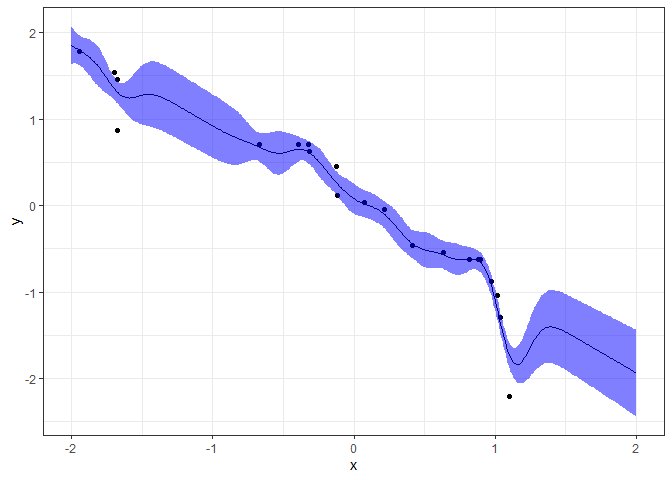
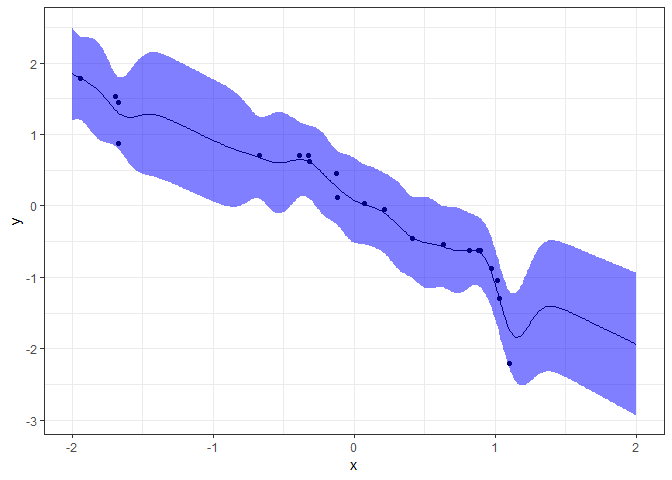
fix gp

diff --git a/post/gaussianprocessori/gaussianprocessori/index.html b/post/gaussianprocessori/gaussianprocessori/index.html
@@ -240,19 +240,19 @@ GP_sim &lt;- function(kernel, par){
 }
 </code></pre>
 <h5 id="ガウスカーネルのシミュレーション">ガウスカーネルのシミュレーション</h5>
-<p>前の節で紹介したガウスカーネルのシミュレーションです。
+<p>前の節で紹介したガウスカーネルのシミュレーションです。改めてガウスカーネルを再定義します。
 <!-- raw HTML omitted -->  <br>
-ガウスカーネルは、下のようにrateパラメータ$\theta$、shapeパラメータ$\rho$を設定する流儀もあるようですが、以降ではshapeパラメータのみ考え、$\rho=1$とした場合のシミュレーションをします。</p>
+ガウスカーネルは、下のようにrateパラメータ$\theta$、shapeパラメータ$\rho$をもちます。ここでは$\theta$、$\rho$ともに１とした場合のシミュレーションをします。</p>
 <p>$$
 k(x,x_{'}) = \theta exp\left(-\cfrac{(x-x^{'})^2}{\rho}\right)
 $$</p>
 <pre><code>## ガウスカーネルの定義 kernel_cov()で使用できるように、引数は(x1,x2,par)でないといけない
 ## カーネルのハイパーパラメータはすべてparで指定する
 Gaussian_kernel &lt;- function(x1, x2, par){
-  return(exp(-(x1 - x2)^2/par[1]))
+  return(par[1]*exp(-(x1 - x2)^2/par[2]))
 }
 
-GP_sim(Gaussian_kernel, par=1)
+GP_sim(Gaussian_kernel, par=c(1,1))
 </code></pre>
 <p><img src="/my-page/post/gaussianprocessori/sim_1.png" alt=""></p>
 <p>ガウスカーネルをカーネル関数に設定したガウス過程は、無限回微分可能な滑らかな曲線になるそうです。</p>
@@ -386,12 +386,12 @@ my_predict &lt;- function(x_test, x_train, y_train, kernel, par){
 <h5 id="ガウスカーネルを使った回帰">ガウスカーネルを使った回帰</h5>
 <p>上で定義した関数を使い、カーネル関数にガウスカーネルを設定して回帰を実行してみます。</p>
 <pre><code>#自作関数GP_L()を使って尤度を計算 尤度を最大化するハイパーパラメータを推定 
-res_optim1 &lt;- exp(optim(par=c(0,0),fn=GP_L,kernel=Gaussian_kernel, x=x,y=y,control = list(fnscale=-1), method=&quot;BFGS&quot;)$par)
+res_optim1 &lt;- exp(optim(par=c(0,0,0),fn=GP_L,kernel=Gaussian_kernel, x=x,y=y,control = list(fnscale=-1), method=&quot;BFGS&quot;)$par)
 
 par &lt;- exp(res_optim1$par)
 # 推定したパラメータの値を確認
 par
-## [1] 0.19549540 0.04619606
+## [1] 1.55308949 0.22898734 0.04299662
 
 #自作関数my_predict()を使って予測分布の平均・ 共分散行列を求める
 pre &lt;- my_predict(x_test = seq(-2.0,2.0,0.01),x_train=x, y_train=y, kernel=Gaussian_kernel,par=par)
@@ -401,11 +401,15 @@ library(ggplot2)
 p &lt;- ggplot() + theme_bw(base_size=11) + 
   geom_line(data=data.frame(x=seq(-2.0,2.0,0.01),y=pre[[1]]),aes(x=x,y=y))
 p &lt;- p + geom_point(data=data.frame(x=x,y=y),aes(x=x,y=y))
-p &lt;- p + geom_ribbon(data=data.frame(x=seq(-2.0,2.0,0.01),ymin=pre[[1]]-2*diag(pre[[2]]), ymax=pre[[1]]+2*diag(pre[[2]])),
+p &lt;- p + geom_ribbon(data=data.frame(x=seq(-2.0,2.0,0.01),ymin=pre[[1]]-2*sqrt(diag(pre[[2]])), ymax=pre[[1]]+2*sqrt(diag(pre[[2]]))),
                      aes(x=x,ymax=ymax,ymin=ymin),fill=&quot;blue&quot;,alpha=0.5)
 p
 </code></pre>
 <p><img src="/my-page/post/gaussianprocessori/res_1.png" alt=""></p>
+<p>最適化したカーネル関数は以下になります。$\delta(x,x^{'})$はクロネッカーのデルタと呼ばれ、$x=x^{'}$のとき、つまりカーネル行列の対角成分にときのみ1を、それ以外は0を返す関数です。</p>
+<p>$$
+k(x,x_{'}) = 1.553exp\left(-\cfrac{(x-x^{'})^2}{0.229}\right) + 0.043\delta(x,x^{'})
+$$</p>
 <p>青い領域はガウス事後分布の$\pm2\sigma$の誤差範囲を示します。
 <!-- raw HTML omitted -->  <br>
 これまた不思議な予測曲線が得られました。結果を観察すると、観測値の乏しい範囲では誤差範囲が広く推定されており、期待値も平均($=0$)に近づくようになっています。</p>
@@ -435,12 +439,16 @@ library(ggplot2)
 p &lt;- ggplot() + theme_bw(base_size=11) + 
   geom_line(data=data.frame(x=seq(-2.0,2.0,0.01),y=pre[[1]]),aes(x=x,y=y))
 p &lt;- p + geom_point(data=data.frame(x=x,y=y),aes(x=x,y=y))
-p &lt;- p + geom_ribbon(data=data.frame(x=seq(-2.0,2.0,0.01),ymin=pre[[1]]-2*diag(pre[[2]]), ymax=pre[[1]]+2*diag(pre[[2]])),
+p &lt;- p + geom_ribbon(data=data.frame(x=seq(-2.0,2.0,0.01),ymin=pre[[1]]-2*sqrt(diag(pre[[2]])), ymax=pre[[1]]+2*sqrt(diag(pre[[2]]))),
                      aes(x=x,ymax=ymax,ymin=ymin),fill=&quot;blue&quot;,alpha=0.5)
 p
 </code></pre>
 <p><img src="/my-page/post/gaussianprocessori/res_2.png" alt=""></p>
 <p><strong>It&rsquo;s so brilliant</strong>&gt;🐢</p>
+<p>最適化したカーネル関数は以下になります。</p>
+<p>$$
+k(x,x_{'}) = 0.111exp\left(-\cfrac{(x-x^{'})^2}{0.027}\right) + 0.469x^T x^{'} + 0.047\delta(x,x^{'})
+$$</p>
 <p>タイムが短縮される全体的な傾向が線形カーネルでとらえるとともに、細かい変動をガウスカーネルで表現できています。</p>
 <p>勾配法の初期値を変えるとどうなるでしょう。</p>
 <pre><code>res_optim3 &lt;- (optim(par=c(0,0.4,0,0),fn=GP_L,kernel=Gaussian_plus_Linear_kernel,
@@ -452,6 +460,10 @@ par
 ~省略~
 </code></pre>
 <p><img src="/my-page/post/gaussianprocessori/res_3.png" alt=""></p>
+<p>最適化したカーネル関数は以下になります。</p>
+<p>$$
+k(x,x_{'}) = 0.223exp\left(-\cfrac{(x-x^{'})^2}{2.811}\right) + 0.509x^T x^{'} + 0.098\delta(x,x^{'})
+$$</p>
 <p>ハイパーパラメータの値が変化し、結果も全く異なります。勾配法によるハイパーパラメータ推定では初期値によって結果が異なることも多く、局所最適解が多い場合はその傾向が強いです。
 <!-- raw HTML omitted -->  <br>
 このような場合、MCMCで推定すると大域的局所解に近づいてくれます。</p>
